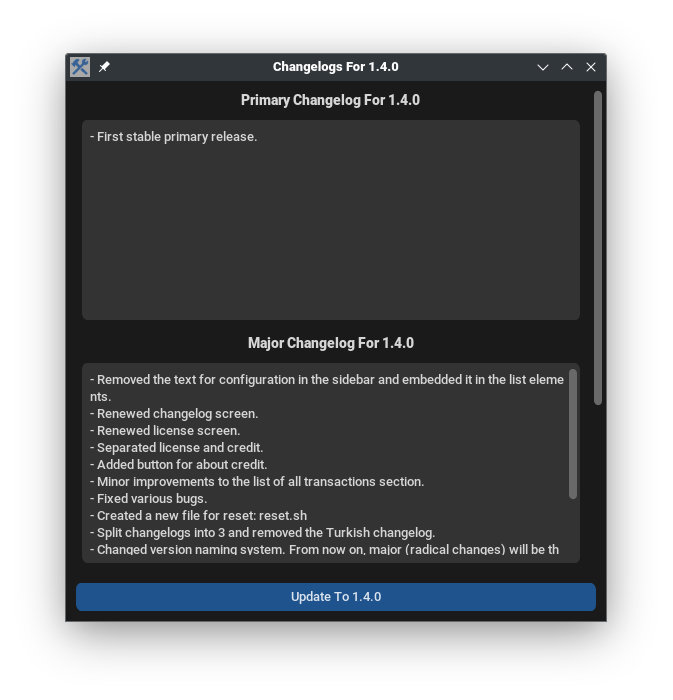
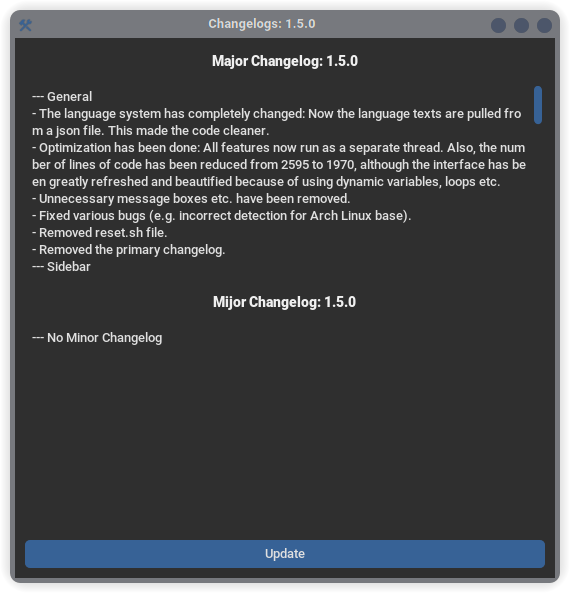
Release 1.5.0-21

diff --git a/app/grelintb.py b/app/grelintb.py
@@ -266,12 +266,12 @@ def manage_grelintb(process, mode):
             mb.showinfo(l_dict['globals']["information"][l_use], l_dict['sidebar'][process][l_use])
             restart_grelintb()
         elif mode == "cli":
-            print(f"Successful! {l_dict['sidebar'][f"{process}-failed"][l_use]}")
+            print({l_dict['sidebar'][f"{process}-failed"][l_use]})
     else:
         if mode == "gui":
             mb.showerror(l_dict['globals']["error"][l_use], l_dict['sidebar'][f"{process}-failed"][l_use])
         elif mode == "cli":
-            print(f"Error: {l_dict['sidebar'][f"{process}-failed"][l_use]} (7)")
+            print(f"{l_dict['sidebar'][f"{process}-failed"][l_use]} (7)")
             sys.exit(7)
 
 class Sidebar(ui.CTkFrame):
@@ -390,11 +390,6 @@ class Sidebar(ui.CTkFrame):
             self.window.title(f"{l_dict['changelog']['changelogs'][l_use]}{version_latest}")
             self.label1 = ui.CTkLabel(self.frame, text=f"{l_dict['changelog']['major'][l_use]}{version_latest}", font=ui.CTkFont(size=14, weight="bold"))
             self.label2 = ui.CTkLabel(self.frame, text=f"{l_dict['changelog']['minor'][l_use]}{version_latest}", font=ui.CTkFont(size=14, weight="bold"))
-            self.button = ui.CTkButton(self.window, text=l_dict["operations"]["update"][l_use], command=lambda:manage_grelintb("update", "gui"))
-            with open("/usr/local/bin/grelintb/major-changelog.txt", "r") as self.cl_major_file:
-                self.cl_major_text = self.cl_major_file.read()
-            with open("/usr/local/bin/grelintb/minor-changelog.txt", "r") as self.cl_minor_file:
-                self.cl_minor_text = self.cl_minor_file.read()
             self.textbox1 = ui.CTkTextbox(self.frame)
             self.textbox1.insert("0.0", str(subprocess.Popen('curl https://raw.githubusercontent.com/MuKonqi/grelintb/main/app/major-changelog.txt', shell=True, stderr=subprocess.PIPE, stdout=subprocess.PIPE, universal_newlines=True).communicate()[0]))
             self.textbox1.configure(state="disabled")
@@ -405,6 +400,7 @@ class Sidebar(ui.CTkFrame):
             self.textbox1.grid(row=1, column=0, sticky="nsew", padx=10, pady=(0, 10))
             self.label2.grid(row=2, column=0, sticky="nsew", pady=(0, 5))
             self.textbox2.grid(row=3, column=0, sticky="nsew", padx=10, pady=(0, 10))
+            self.button = ui.CTkButton(self.window, text=l_dict["operations"]["update"][l_use], command=lambda:manage_grelintb("update", "gui"))
             self.button.grid(row=1, column=0, sticky="nsew", padx=10, pady=10)
         elif caller != "startup":
             mb.showinfo(l_dict['globals']['information'][l_use], l_dict['changelog']['up-to-date'][l_use])

diff --git a/README.md b/README.md
@@ -3,8 +3,6 @@
 <p align="center"><a href="https://github.com/mukonqi/grelintb/releases"><img src="https://img.shields.io/github/downloads/mukonqi/grelintb/total?label=Downloads" alt="Downloads"></img></a></p>
 <p align="center"><a href="https://github.com/mukonqi/grelintb/releases/latest"><img src="https://img.shields.io/github/v/release/mukonqi/grelintb?label=Latest Release" alt="GitHub Release"></a></p>
 
-- Warning! This branch (dev) is for developing 1.5.0 version.
-
 ## Features
 ### Sidebar
 - A button with hidden style to showing application's name for opening [GrelinTB's website](https://mukonqi.github.io/grelintb/index.html).
@@ -12,36 +10,36 @@
 - A button with hidden style to opening [developer's website](https://mukonqi.github.io).
 - A button with hidden style to opening a window which showing license.
 - A button with hidden style to opening a window which showing credit.
-- A button to controling updates. If new version available, get the changelog of the new version and update to new version.
+- A button to controling updates. If new version available, get the changelogs of the new version and update to new version.
 - A button to resetting GrelinTB.
 - A button to uninstalling GrelinTB.
 - A label to show what the following setting is.
 - A list to changing theme (GrelinTB, random, dark blue, blue, green).
+- A label to show what the following setting is.
 - A list to changing appearance (system, light, dark).
+- A label to show what the following setting is.
 - A list to changing language (English, Turkish).
 - A button to showing status. If some processes are working, it opens a new window for displaying all processes with time if not it shows a warning message.
 ### Startup
-- Showing warious informations [weather forecast, system (), some hardware usages, fans, tempatures, battery].
+- Showing warious informations [weather forecast, system, hardware usages, fans, tempatures, battery].
 - Refreshing these informations.
 ### Notes and Documents
-- Creating (only for notes), editing, renaming, restoring (only for notes), deleting notes or may be documents.
+- Creating (only for notes), editing, renaming, restoring (only for notes), deleting notes and documents.
 ### Store
-- Traditional Applications: Searching, installing, reinstalling, uninstalling and updating predefined and desired applications.
-- Flatpak Applications: Searching, installing, reinstalling, uninstalling and updating desired applications.
-- Desktop Environments and Window Managers: Installing, reinstalling, uninstalling and updating some desktop environemtns and window managers.
-- Traditional Scripts: Updating all packages, making more complex updates, clearing package cache, removing unnecessary packages, fixing broken dependencies, showing history and listing installed packages.
-- Flatpak Scripts: Updating all packages, removing unnecessary packages, repairing Flatpak installation, showing history and listing installed packages.
+- Packages (DEB / RPM / EOPKG / Pacman and Flatpak): Searching, installing, reinstalling, uninstalling and updating recommend or any packages.
+- Desktop Environments, Window Managers & Compotisors: Installing, reinstalling, uninstalling and updating some desktop environemtns and window managers.
+- Scripts: Updating all packages, synchronizing distribution (only for APT & DPKG / DNF), cleaning package cache (only for APT & DPKG / DNF / EOPKG / Pacman), removing unnecessary packages, fixing broken dependencies (only for APT & DPKG / Pacman), repairing Flatpak installation (only for Flatpak), showing history, listing installed packages and listing leaves (only for DNF).
 - Systemd Services: Getting the status of any service or enabling, disabling, starting and stopping it.
 ### Tools
-- Configuring Bash and Zsh.
+- Configuring Bashrc and Zshrc.
 - Changing the name of the computer.
 - Showing some informations about some distributions.
 - Making simple math operations (basic calcer).
 ### Also
 - GrelinTB can auto detect tr_TR locale when there is no config related with language setting. If locale tr_TR, set GrelinTB's language Turkish. If not set GrelinTB's language English.
 - GrelinTB can synchronize with the system theme (dark or light) when appearance setted to system.
-- Check GrelinTB updates every Monday.
-- Some parameters for terminal. Tip: Help page for all parameters: `grelintb help`
+- GrelinTB checks updates every Monday.
+- Some parameters for terminal. Tip: Help page for all parameters: `grelintb -h`
 ## Installation
 <p align="center"><a href="https://github.com/mukonqi/grelintb/releases/latest/download/grelintb.rpm"><img src="https://img.shields.io/badge/Download%20RPM-A4A62A" alt="Download RPM"></a></p>
 
@@ -62,20 +60,24 @@
 ![Changelog](./gallery/Changelog.png)
 ![License](./gallery/License.png)
 ![Updater](./gallery/Updater.png)
-![List of All Operations](./gallery/List%20of%20All%20Operations.png)
+![Running Processes](./gallery/Running%20Processes.png)
 ![Startup](./gallery/Startup.png)
 ![Notes and Documents](./gallery/Notes%20and%20Documents.png)
-![Traditional Packages](./gallery/Traditional%20Packages.png)
-![Flatpak Packages](./gallery/Flatpak%20Packages.png)
-![DEs and WMs](./gallery/DEs%20and%20WMs.png)
-![Traditional Scripts](./gallery/Traditional%20Scripts.png)
-![Flatpak Scripts](./gallery/Flatpak%20Scripts.png)
+![Notes and Documents (Example Slot 1)](./gallery/Notes%20and%20Documents%20Slot%201.png)
+![Notes and Documents (Example Slot 2)](./gallery/Notes%20and%20Documents%20Slot%202.png)
+![Packages](./gallery/Packages.png)
+![Packages (Example Slot)](./gallery/Packages%20Slot.png)
+![Desktop Environments, Window Managers & Compotisors](./gallery/Desktop%20Environments,%20Window%20Managers%20&%20Compotisors.png)
+![Desktop Environments, Window Managers & Compotisors (Example Slot)](./gallery/Desktop%20Environments,%20Window%20Managers%20&%20Compotisors%20Slot.png)
+![Scripts](./gallery/Scripts.png)
+![Scripts (Example Slot)](./gallery/Scripts%20Slot.png)
 ![Systemd Services](./gallery/Systemd%20Services.png)
-![Configure Bash and Zsh (Buttons)](./gallery/Configure%20Bash%20and%20Zsh%20(Buttons).png)
-![Configure Bash and Zsh (File)](./gallery/Configure%20Bash%20and%20Zsh%20(File).png)
+![Systemd Services (Example Slot)](./gallery/Systemd%20Services%20Slot.png)
+![Configure Bashrc and Zshrc (Options)](./gallery/Configure%20Bashrc%20and%20Zshrc%20Options.png)
+![Configure Bashrc and Zshrc (File](./gallery/Configure%20Bashrc%20and%20Zshrc%20File.png)
 ![Change Computer's Name](./gallery/Change%20Computer's%20Name.png)
 ![About Some Distributions](./gallery/About%20Some%20Distributions.png)
-![Calculator](./gallery/Calculator.png)
+![Calcer](./gallery/Calcer.png)
 ## Stars
 - Let's give a ⭐ (star) to GrelinTB!
 
